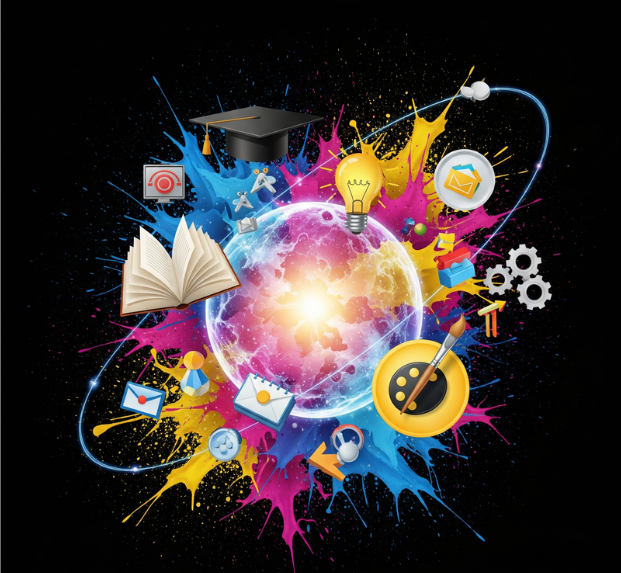
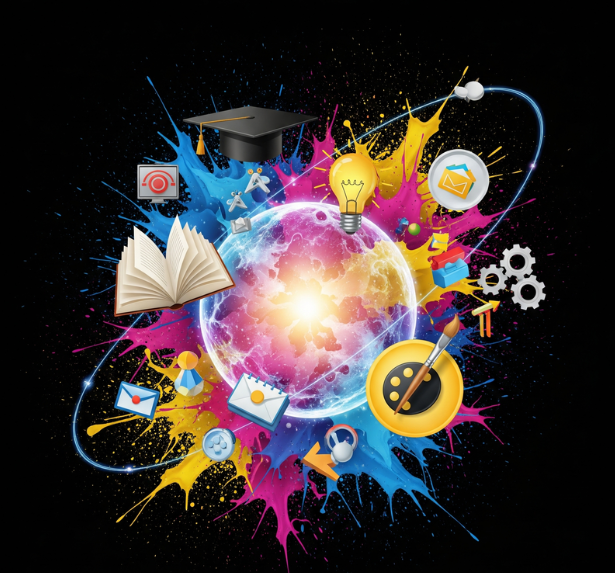
.

diff --git a/src/app/(auth)/layout.tsx b/src/app/(auth)/layout.tsx
@@ -14,7 +14,7 @@ export default function AuthLayout({
         <div className="auth-illustration-column">
           <div className="auth-illustration-content">
             <Image
-              src="/uploads/images/auth-illustration.svg"
+              src="/uploads/images/miniatura-nexusalpri.png"
               alt="NexusAlpri Illustration"
               width={500}
               height={500}

diff --git a/src/app/(auth)/auth.css b/src/app/(auth)/auth.css
@@ -16,7 +16,7 @@
   --auth-accent-text: #14b8a6; /* teal-500 */
 
   /* Nuevo fondo oscuro para la ilustración */
-  --auth-illustration-bg: linear-gradient(145deg, #1A1A1A 0%, #000000 100%);
+  --auth-illustration-bg: linear-gradient(145deg, #000000 0%, #000000 100%);
 
   background-color: var(--auth-bg);
   color: var(--auth-text-primary);
